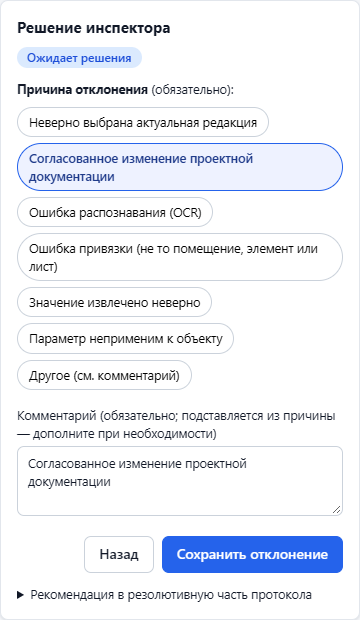
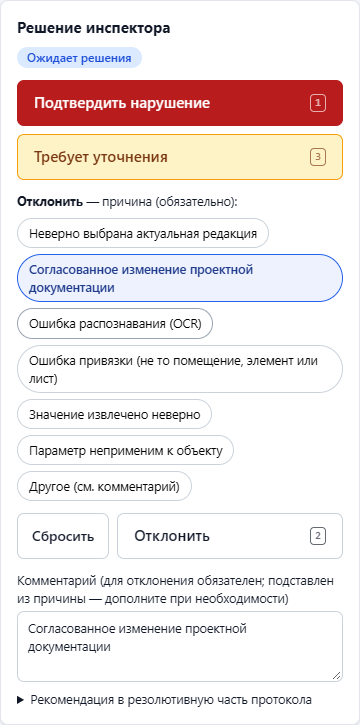
Lock-файлы Python, базовые образы по дайджесту; «Отклонить» — причина → «Отклонить» (с открытием карточки 3 действия)
- ml-service/requirements-worker.txt, requirements.txt — точные версии, снятые с проверенных образов; python:3.12-slim,
  pytorch 2.4.1 и rabbitmq 3.13 закреплены по SHA-256. Оба образа пересобраны — набор пакетов совпал.
- Карточка кандидата: причины отклонения видны сразу; клавиша 2 отклоняет с выбранной причиной, Esc / «Сбросить»
  снимают причину.
- Руководство пользователя (раздел 9, клавиши, скриншоты), README, документ сервиса.

diff --git a/frontend/src/pages/Review.jsx b/frontend/src/pages/Review.jsx
@@ -85,8 +85,7 @@ export default function Review() {
   const [protocol, setProtocol] = useState(null);
   const [list, setList] = useState([]);
   const [error, setError] = useState(null);
-  const [mode, setMode] = useState(null);              // null | 'reject'
-  const [reason, setReason] = useState(null);
+  const [reason, setReason] = useState(null);         // выбранная причина отклонения (причины видны сразу)
   const [comment, setComment] = useState('');
   const [recommendation, setRecommendation] = useState('');
   const [busy, setBusy] = useState(false);
@@ -99,7 +98,6 @@ export default function Review() {
     const [c, p] = await Promise.all([api(`/protocols/${protocolId}/checks/${checkId}`), api(`/protocols/${protocolId}`)]);
     setCard(c);
     setProtocol(p);
-    setMode(null);
     setReason(null);
     setComment('');
     setRecommendation(c.decision?.recommendation || c.recommendation_template);
@@ -122,6 +120,8 @@ export default function Review() {
     return order.find((r) => !r.decision && r.check_id !== exclude)?.check_id ?? null;
   }, [list, index]);
 
+  const reasonText = (code) => reference?.reason_codes?.[code] || code;
+
   async function decide(status) {
     if (!card) return;
     if (status === 'NEGATIVE_VERIFIED' && (!reason || !comment.trim())) { commentRef.current?.focus(); return; }
@@ -129,7 +129,9 @@ export default function Review() {
     try {
       const body = { status };
       if (status === 'NEGATIVE_VERIFIED') body.reason_code = reason;
-      if (comment.trim()) body.comment = comment.trim();
+      // комментарий, подставленный из причины отклонения, не уходит вместе с другим решением
+      const autoComment = reason && comment === reasonText(reason);
+      if (comment.trim() && (status === 'NEGATIVE_VERIFIED' || !autoComment)) body.comment = comment.trim();
       if (status === 'CONFIRMED_VIOLATION' && recommendation.trim()) body.recommendation = recommendation.trim();
       await api(`/protocols/${protocolId}/checks/${card.check_id}/decision`, { method: 'PUT', body });
       const label = { CONFIRMED_VIOLATION: 'Нарушение подтверждено', NEGATIVE_VERIFIED: 'Кандидат отклонён', CLARIFICATION_REQUIRED: 'Отправлено на уточнение' }[status];
@@ -146,15 +148,15 @@ export default function Review() {
     try { await api(`/protocols/${protocolId}/checks/${card.check_id}/decision`, { method: 'DELETE' }); toast('Решение отменено'); await load(); } catch (e) { toast(e.message, 'error'); }
   }
 
+  // Отклонение — 3 действия от открытия карточки: причина → «Отклонить». Комментарий обязателен по ТЗ и подставляется
+  // из причины (при смене причины подставленный текст меняется, написанный инспектором — нет)
   function pickReason(code) {
+    if (!comment.trim() || (reason && comment === reasonText(reason))) setComment(reasonText(code));
     setReason(code);
-    if (!comment.trim()) setComment(reference?.reason_codes?.[code] || code);
   }
 
-  // Выход из отклонения: комментарий, подставленный из причины, не должен уйти вместе с другим решением
   function cancelReject() {
-    if (reason && comment === (reference?.reason_codes?.[reason] || reason)) setComment('');
-    setMode(null);
+    if (reason && comment === reasonText(reason)) setComment('');
     setReason(null);
   }
 
@@ -165,7 +167,7 @@ export default function Review() {
       if (e.key === 'ArrowLeft' && prev) go(prev);
       else if (e.key === 'ArrowRight' && next) go(next);
       else if (decidable && e.key === '1') decide('CONFIRMED_VIOLATION');
-      else if (decidable && e.key === '2') setMode('reject');
+      else if (decidable && e.key === '2') { if (reason) decide('NEGATIVE_VERIFIED'); else document.querySelector('.reasons .chip')?.focus(); }
       else if (decidable && e.key === '3') decide('CLARIFICATION_REQUIRED');
       else if (e.key === 'Escape') cancelReject();
     };
@@ -250,40 +252,31 @@ export default function Review() {
 
             {decidable && (
               <>
-                {mode !== 'reject' ? (
-                  <div className="decision-buttons">
-                    <button type="button" className="btn btn-danger btn-lg" disabled={busy} onClick={() => decide('CONFIRMED_VIOLATION')}>
-                      Подтвердить нарушение <kbd>1</kbd>
-                    </button>
-                    <button type="button" className="btn btn-lg" disabled={busy} onClick={() => setMode('reject')}>
+                <div className="decision-buttons">
+                  <button type="button" className="btn btn-danger btn-lg" disabled={busy} onClick={() => decide('CONFIRMED_VIOLATION')}>
+                    Подтвердить нарушение <kbd>1</kbd>
+                  </button>
+                  <button type="button" className="btn btn-warn btn-lg" disabled={busy} onClick={() => decide('CLARIFICATION_REQUIRED')}>
+                    Требует уточнения <kbd>3</kbd>
+                  </button>
+                </div>
+                <div className="reject-box">
+                  <div className="small"><b>Отклонить</b> — причина (обязательно):</div>
+                  <div className="reasons">
+                    {Object.entries(reasons).map(([code, label]) => (
+                      <button type="button" key={code} className={`chip ${reason === code ? 'on' : ''}`} onClick={() => pickReason(code)}>{label}</button>
+                    ))}
+                  </div>
+                  <div className="form-actions">
+                    {reason && <button type="button" className="btn" onClick={cancelReject}>Сбросить</button>}
+                    <button type="button" className="btn btn-lg" disabled={busy || !reason || !comment.trim()} onClick={() => decide('NEGATIVE_VERIFIED')}>
                       Отклонить <kbd>2</kbd>
                     </button>
-                    <button type="button" className="btn btn-warn btn-lg" disabled={busy} onClick={() => decide('CLARIFICATION_REQUIRED')}>
-                      Требует уточнения <kbd>3</kbd>
-                    </button>
                   </div>
-                ) : (
-                  <div className="reject-box">
-                    <div className="small"><b>Причина отклонения</b> (обязательно):</div>
-                    <div className="reasons">
-                      {Object.entries(reasons).map(([code, label]) => (
-                        <button type="button" key={code} className={`chip ${reason === code ? 'on' : ''}`} onClick={() => pickReason(code)}>{label}</button>
-                      ))}
-                    </div>
-                    <label className="small comment-label">Комментарий (обязательно; подставляется из причины — дополните при необходимости)
-                      <textarea ref={commentRef} rows={3} value={comment} onChange={(e) => setComment(e.target.value)} placeholder="Обоснование отклонения" />
-                    </label>
-                    <div className="form-actions">
-                      <button type="button" className="btn" onClick={cancelReject}>Назад</button>
-                      <button type="button" className="btn btn-primary" disabled={busy || !reason || !comment.trim()} onClick={() => decide('NEGATIVE_VERIFIED')}>Сохранить отклонение</button>
-                    </div>
-                  </div>
-                )}
-                {mode !== 'reject' && (
-                  <label className="small comment-label">Комментарий (необязательно)
-                    <textarea rows={3} value={comment} onChange={(e) => setComment(e.target.value)} placeholder="Обоснование решения" />
-                  </label>
-                )}
+                </div>
+                <label className="small comment-label">Комментарий {reason ? '(для отклонения обязателен; подставлен из причины — дополните при необходимости)' : '(необязательно)'}
+                  <textarea ref={commentRef} rows={3} value={comment} onChange={(e) => setComment(e.target.value)} placeholder="Обоснование решения" />
+                </label>
                 {card.kind !== 'negative' && (
                   <details className="small">
                     <summary>Рекомендация в резолютивную часть протокола</summary>
@@ -305,7 +298,7 @@ export default function Review() {
             <p className="muted tiny">Редакции: система сравнивает только действующие (последние) редакции документов; устаревшие исключены — см. «Комплект документов».</p>
             <p className="muted tiny">Группа доказательств: <code>{card.evidence_group_id}</code> · статус системы: {card.finding_status}</p>
           </section>
-          <p className="muted tiny keys">Клавиши: <kbd>1</kbd> подтвердить · <kbd>2</kbd> отклонить · <kbd>3</kbd> уточнение · <kbd>←</kbd> <kbd>→</kbd> навигация</p>
+          <p className="muted tiny keys">Клавиши: <kbd>1</kbd> подтвердить · <kbd>2</kbd> отклонить (после выбора причины) · <kbd>3</kbd> уточнение · <kbd>Esc</kbd> сбросить причину · <kbd>←</kbd> <kbd>→</kbd> навигация</p>
         </aside>
       </div>
     </div>

diff --git a/ml-service/CLAUDE.md b/ml-service/CLAUDE.md
@@ -25,6 +25,42 @@ This file provides guidance to Claude Code (claude.ai/code) when working with co
 
 ## ▶ Начать отсюда: статус на 27.09 (вечер) и следующие шаги
 
+### ⏰ ПЛАН НА ПОСЛЕДНИЕ 4 ЧАСА (29.09, 19:55 → сдача 23:59) — делать строго по порядку
+
+Контекст: Саша нашёл ответы организаторов (`Q&A 16.09.2026 (1).xlsx`, разбор — абзац «29.09, ~01:00» ниже). Рейтинг
+40 = 30 эксперты + 10 питч, в питче главное — **живое демо**. **Презентации нет.** Всё остальное (сервис, Docker, README,
+документация, руководство) готово и запушено в ветку `ml` (`56ec28c`); образы в WSL (`inspector-docker`) собраны.
+1. **Презентация (≈1,5–2 ч, главное).** PDF 16:9 на русском. Основа — `python -m ml.slides_pdf` (9 слайдов ML) +
+   `docs/Инспектор_ИИ_ML_для_презентации.md` + `docs/Инспектор_ИИ_сервис.md`. Нужны слайды: проблема и решение (система не
+   выносит вердикт), сценарий инспектора со скриншотами из `docs/img/guide/`, архитектура (схема), стек, протокол по
+   Приложению 2, метрики (P 1.00 / R 0.80 / F1 0.89 / FPR 0 на обучающих; OCR 0,950; UX 13 с на 8 кандидатов), что
+   проверено (Docker, RabbitMQ, образ жюри совпал построчно), ограничения и дальше. Плюс сценарий живого демо.
+2. **Lock-файлы Python (20 мин):** закрепить точные версии в `requirements-worker.txt` / `requirements.txt` (из собранных
+   образов: `pip freeze`, либо версии из лога сборки `D:\wsl\jury_build.log`, `build.log`) — требование О-2 / Q2.
+3. **«Отклонить» за 3 действия (30 мин):** в `Review.jsx` показать причины сразу (клик по причине = отклонение с причиной,
+   потом «Сохранить»), пересобрать `npm run build`, поправить раздел 9 руководства и скриншот `09_reject` (Q28).
+4. **Публичный стенд — решение Саши/команды:** туннель с ноутбука (cloudflared, бесплатно, ссылка живёт, пока ноутбук
+   работает) или сервер. **Сменить пароли по умолчанию** (на стенде документы организаторов).
+5. Если останется время: шифр / редакция / статус утверждения в карточке (Q29, Q33, ~1 ч); минимальный контур дообучения
+   (Q24, 1,5–3 ч); отмена финализации инспектором (Q32, 5 мин).
+6. **До 23:59 (делает команда):** репозиторий публичный, `ml` → `main`, ссылки на платформу ЛЦТ (репозиторий, документация
+   `ml-service/docs/Инспектор_ИИ_сервис.md`, презентация PDF на диске, стенд или скринкаст).
+Не браться сегодня: OCR сканов в `ml.run`, правка доказательств инспектором (Q31), DOCX — не успеть и не проверить.
+**29.09, 20:20 — п. 1 сделан:** презентация на шаблоне ЛЦТ (`Презентация.zip` → `pres/template.pptx`), 21 слайд:
+обязательные 7–11 в исходной вёрстке (титул с логотипом Стройнадзора из слайда 6 шаблона, описание, 5 карточек команды —
+аватары-инициалы вместо фото, история, «коротко о решении»), дальше — проблема, сценарий, интерфейс, пример «Форшахта»,
+архитектура, стек, ML-слайды (кадры из `handover/slides`), протокол, готовность, эффект, планы, «кто что сделал», спасибо.
+Сборка — `python pres/build_deck.py` → `pres/Инспектор_ИИ_презентация.pptx`; PDF и PNG — `pres/export.ps1` (PowerPoint
+через COM). Шрифт Montserrat поставлен пользователю (`pres/fonts`). Поля ‹…› (розовые) команда заполняет сама: специальность
+капитана, места учёбы, город, ники, телефоны, ссылка на стенд. `pres/` в git не добавлялась.
+**29.09, ~21:00 — п. 2 и 3 сделаны (локальный `main`, в `team_ml` ещё не отправлено):** lock-файлы — точные версии в
+`requirements-worker.txt` (полный freeze образа воркера) и `requirements.txt` (что pip ставит поверх базы жюри), базовые
+образы и RabbitMQ — по дайджесту; оба образа пересобраны в WSL (`D:\wsl\lock_check.sh`, `lock_jury.sh`) — набор пакетов
+совпал с проверенными один в один. «Отклонить» — причины видны в карточке сразу: причина → «Отклонить» (2 клика, с
+открытием карточки 3; клавиша `2` — отклонить с выбранной причиной, `Esc` / «Сбросить» — снять причину); `flow.mjs`: 13 с,
+клики 1 / 2 / 1, отклонение сохранилось с `BINDING_ERROR`; скриншоты 08, 09, 12 руководства пересняты
+(`guide_shots.mjs` на временном стенде 8092), руководство, README, документ сервиса обновлены.
+
 **Дедлайн сдачи — 29.09.2026 23:59.** Саша (пользователь) может уходить внезапно — по ходу длинной работы держать здесь
 и в разделах ниже актуальным «где остановился».
 
@@ -88,6 +124,25 @@ This file provides guidance to Claude Code (claude.ai/code) when working with co
   (`v1.0`), **target — `ml`** (в `main` кода нет). ⚠ В `inspector_ml_assets.zip` 910 страниц OCR сканов актов ИД Речникова,
   на 599 страницах — ФИО из актов: в публичном релизе это станет доступно всем — решение за Сашей (вариант: публичный
   архив без этих страниц + полный — организаторам отдельно). SHA-256 архива `95df0ae9…cb211`, 96,2 МБ.
+
+**29.09, ~01:00 — Саша нашёл `Q&A 16.09.2026 (1).xlsx` (ответы организаторов на 33 вопроса) в корне.** Ключевое:
+рейтинг **40 баллов = 30 эксперты + 10 питч** (в питче больше всего — **живое демо**, затем архитектура и метрики);
+сдача — комплект для офлайн-развёртывания (репозиторий, Dockerfile/образы, docker-compose, **lock-файлы зависимостей**,
+локальные веса, README с одной командой, healthcheck, OpenAPI, **пример выходного JSON**) + **публичная ссылка на стенд** +
+очное демо на работающем решении; прогон — закрытый контур без интернета. Обязательные модули High (Q17): загрузка/парсинг,
+сравнение и протокол, верификация, **контур обратной связи/датасета** (Q24: для зачёта — воспроизводимый контур: сбор
+CONFIRMED/NEGATIVE, dataset_version, разделение по object_id, хеши, обучение/оценка, журнал метрик, ручное approve/reject,
+откат; для максимума — одна итерация с артефактом и метриками; кнопка без данных не считается), **свободный поиск как
+SUSPICION**, обработка ошибок. Разобрано, чего у нас нет (приоритет — сверху): публичного стенда; lock-файлов Python
+(requirements с диапазонами); контура дообучения (есть только выгрузка решений); OCR сканов в `ml.run` и
+LOW_QUALITY / ABSTAIN с coverage (Q7, Q18); DOCX не анализируются (у Речникова 6 DOCX в реестре; Q10: PDF и DOCX
+обязательны); в карточке нет шифра, редакции, статуса утверждения, листа (Q29, Q33); «Отклонить» = 4 действия по их
+определению (открыть карточку → Отклонить → причина → сохранить; Q28 — не больше 3); инспектор не может править
+доказательства и выбирать редакцию (Q31); конфликт редакций не даёт CLARIFICATION_REQUIRED, «Загружена» без ожидаемого
+реестра (Q12, Q30); mock УКЭП (Q27); повторы и mock-адаптер «РиН» (Q26); отмена финализации — ещё и инспектору (Q32);
+перечень моделей с лицензиями (Q23). Уже соответствует: стек, OpenAPI, pull-модель, compose, healthcheck, пример JSON,
+весь список экранов ядра (Q20), UX ≤ 30 мин (Q16), Rotate/CropBox (Q7), локальная обработка, только финализированное
+в «РиН», аудит, роли, ключ сопоставления (Q14), безопасный полный пересчёт при дозагрузке с сохранением версий (Q25).
 
 **Следующие шаги (по порядку, согласовать с Сашей в начале сессии):**
 1. **Сервис вокруг ML** (без него «неработающий прототип» → ≤ 6 баллов из 20, не в финал): backend (Node.js, REST +
@@ -215,8 +270,13 @@ TRAIN_data/                   data/ из TRAIN-архива: public_gold_checks.
   git read-tree --prefix=ml-service/ -u main && git rm -r -q -f ml-service/service
   git read-tree --prefix=backend/ -u main:service/backend && git read-tree --prefix=frontend/ -u main:service/frontend
   for f in README.md docker-compose.yml .env.example .dockerignore .gitignore; do git show main:service/$f > $f; git add $f; done
+  # копия руководства в корне ветки (Саша положил 29.09) — пути от корня
+  sed 's|](img/|](ml-service/docs/img/|g; s|](Инспектор_ИИ_сервис.md)|](ml-service/docs/Инспектор_ИИ_сервис.md)|g' \
+    ml-service/docs/Инспектор_ИИ_руководство_пользователя.md > Инспектор_ИИ_руководство_пользователя.md; git add Инспектор_ИИ_руководство_пользователя.md
+  git fetch team && git log --oneline HEAD..team/ml    # Саша пушит в ml через сайт — сначала rebase, не force
   git commit -m "…" && git push
   ```
+  **29.09, ночь:** в `ml` есть коммит Саши через сайт (руководство в корне) и тег **`v1.0` на `87ff044`** (релиз с архивом).
   SSH — аккаунт VSProgram. Архивы
   `handover/inspector_ml_assets.zip` (кэш + модели) и `handover/inspector_ml_slides.zip` (слайды) — в GitHub Releases
   командного репозитория, выкладывает Саша через сайт (утилиты `gh` нет).

diff --git a/Инспектор_ИИ_руководство_пользователя.md b/Инспектор_ИИ_руководство_пользователя.md
@@ -33,7 +33,7 @@
 1. Создайте объект и загрузите документы ПД, РД и ИД. Проверка запустится сама.
 2. Дождитесь протокола. Обычно это от 20 секунд до нескольких минут.
 3. Нажмите «Начать верификацию» и по каждому кандидату примите решение: подтвердить, отклонить с причиной или
-   отправить на уточнение. Подтверждение — 1 клик, отклонение — 3.
+   отправить на уточнение. Подтверждение — 1 клик, отклонение — 2 (причина → «Отклонить»): с открытием карточки не больше 3 действий.
 4. Если пришли новые документы, дозагрузите их. Протокол пересчитается, решения сохранятся.
 5. Финализируйте протокол и выгрузите его в PDF, DOCX или XML.
 
@@ -209,8 +209,10 @@
 | Решение | Как | Кликов |
 |---|---|---|
 | **Подтвердить нарушение** | кнопка или клавиша `1` | 1 |
-| **Отклонить** | кнопка или клавиша `2` → причина → «Сохранить отклонение» | 3 |
+| **Отклонить** | причина (список виден сразу) → кнопка «Отклонить» или клавиша `2` | 2 |
 | **Требует уточнения** | кнопка или клавиша `3` | 1 |
+
+Вместе с открытием карточки любое решение — не больше 3 действий.
 
 ![Отклонение: причина и комментарий](ml-service/docs/img/guide/09_reject.png)
 
@@ -224,10 +226,11 @@
 - параметр неприменим к объекту;
 - другое (см. комментарий).
 
-«Назад» или `Esc` отменяет отклонение без сохранения.
+«Сбросить» или `Esc` снимает выбранную причину без сохранения; подставленный из неё комментарий тоже убирается.
 
 Ещё в правой части:
-- **Комментарий** к подтверждению или уточнению — необязательный.
+- **Комментарий** к подтверждению или уточнению — необязательный (подставленный из причины отклонения текст с ними не
+  сохраняется).
 - **«Рекомендация в резолютивную часть протокола»** — готовый текст рекомендации по параметру. Его можно
   отредактировать, при подтверждении нарушения он попадёт в раздел 7 протокола.
 - **«отменить решение»** — вернуть кандидата в «Ожидает решения». Работает до финализации.
@@ -354,10 +357,10 @@
 | Клавиша | Действие |
 |---|---|
 | `1` | подтвердить нарушение |
-| `2` | отклонить (открывает выбор причины) |
+| `2` | отклонить с выбранной причиной (без причины — переводит фокус на список причин) |
 | `3` | требует уточнения |
 | `←` `→` | предыдущий / следующий кандидат |
-| `Esc` | закрыть лист целиком или отменить отклонение |
+| `Esc` | закрыть лист целиком или сбросить выбранную причину |
 
 Клавиши не срабатывают, пока курсор стоит в поле комментария.
 

diff --git a/ml-service/docs/Инспектор_ИИ_руководство_пользователя.md b/ml-service/docs/Инспектор_ИИ_руководство_пользователя.md
@@ -33,7 +33,7 @@
 1. Создайте объект и загрузите документы ПД, РД и ИД. Проверка запустится сама.
 2. Дождитесь протокола. Обычно это от 20 секунд до нескольких минут.
 3. Нажмите «Начать верификацию» и по каждому кандидату примите решение: подтвердить, отклонить с причиной или
-   отправить на уточнение. Подтверждение — 1 клик, отклонение — 3.
+   отправить на уточнение. Подтверждение — 1 клик, отклонение — 2 (причина → «Отклонить»): с открытием карточки не больше 3 действий.
 4. Если пришли новые документы, дозагрузите их. Протокол пересчитается, решения сохранятся.
 5. Финализируйте протокол и выгрузите его в PDF, DOCX или XML.
 
@@ -209,8 +209,10 @@
 | Решение | Как | Кликов |
 |---|---|---|
 | **Подтвердить нарушение** | кнопка или клавиша `1` | 1 |
-| **Отклонить** | кнопка или клавиша `2` → причина → «Сохранить отклонение» | 3 |
+| **Отклонить** | причина (список виден сразу) → кнопка «Отклонить» или клавиша `2` | 2 |
 | **Требует уточнения** | кнопка или клавиша `3` | 1 |
+
+Вместе с открытием карточки любое решение — не больше 3 действий.
 
 ![Отклонение: причина и комментарий](img/guide/09_reject.png)
 
@@ -224,10 +226,11 @@
 - параметр неприменим к объекту;
 - другое (см. комментарий).
 
-«Назад» или `Esc` отменяет отклонение без сохранения.
+«Сбросить» или `Esc` снимает выбранную причину без сохранения; подставленный из неё комментарий тоже убирается.
 
 Ещё в правой части:
-- **Комментарий** к подтверждению или уточнению — необязательный.
+- **Комментарий** к подтверждению или уточнению — необязательный (подставленный из причины отклонения текст с ними не
+  сохраняется).
 - **«Рекомендация в резолютивную часть протокола»** — готовый текст рекомендации по параметру. Его можно
   отредактировать, при подтверждении нарушения он попадёт в раздел 7 протокола.
 - **«отменить решение»** — вернуть кандидата в «Ожидает решения». Работает до финализации.
@@ -354,10 +357,10 @@
 | Клавиша | Действие |
 |---|---|
 | `1` | подтвердить нарушение |
-| `2` | отклонить (открывает выбор причины) |
+| `2` | отклонить с выбранной причиной (без причины — переводит фокус на список причин) |
 | `3` | требует уточнения |
 | `←` `→` | предыдущий / следующий кандидат |
-| `Esc` | закрыть лист целиком или отменить отклонение |
+| `Esc` | закрыть лист целиком или сбросить выбранную причину |
 
 Клавиши не срабатывают, пока курсор стоит в поле комментария.
 
